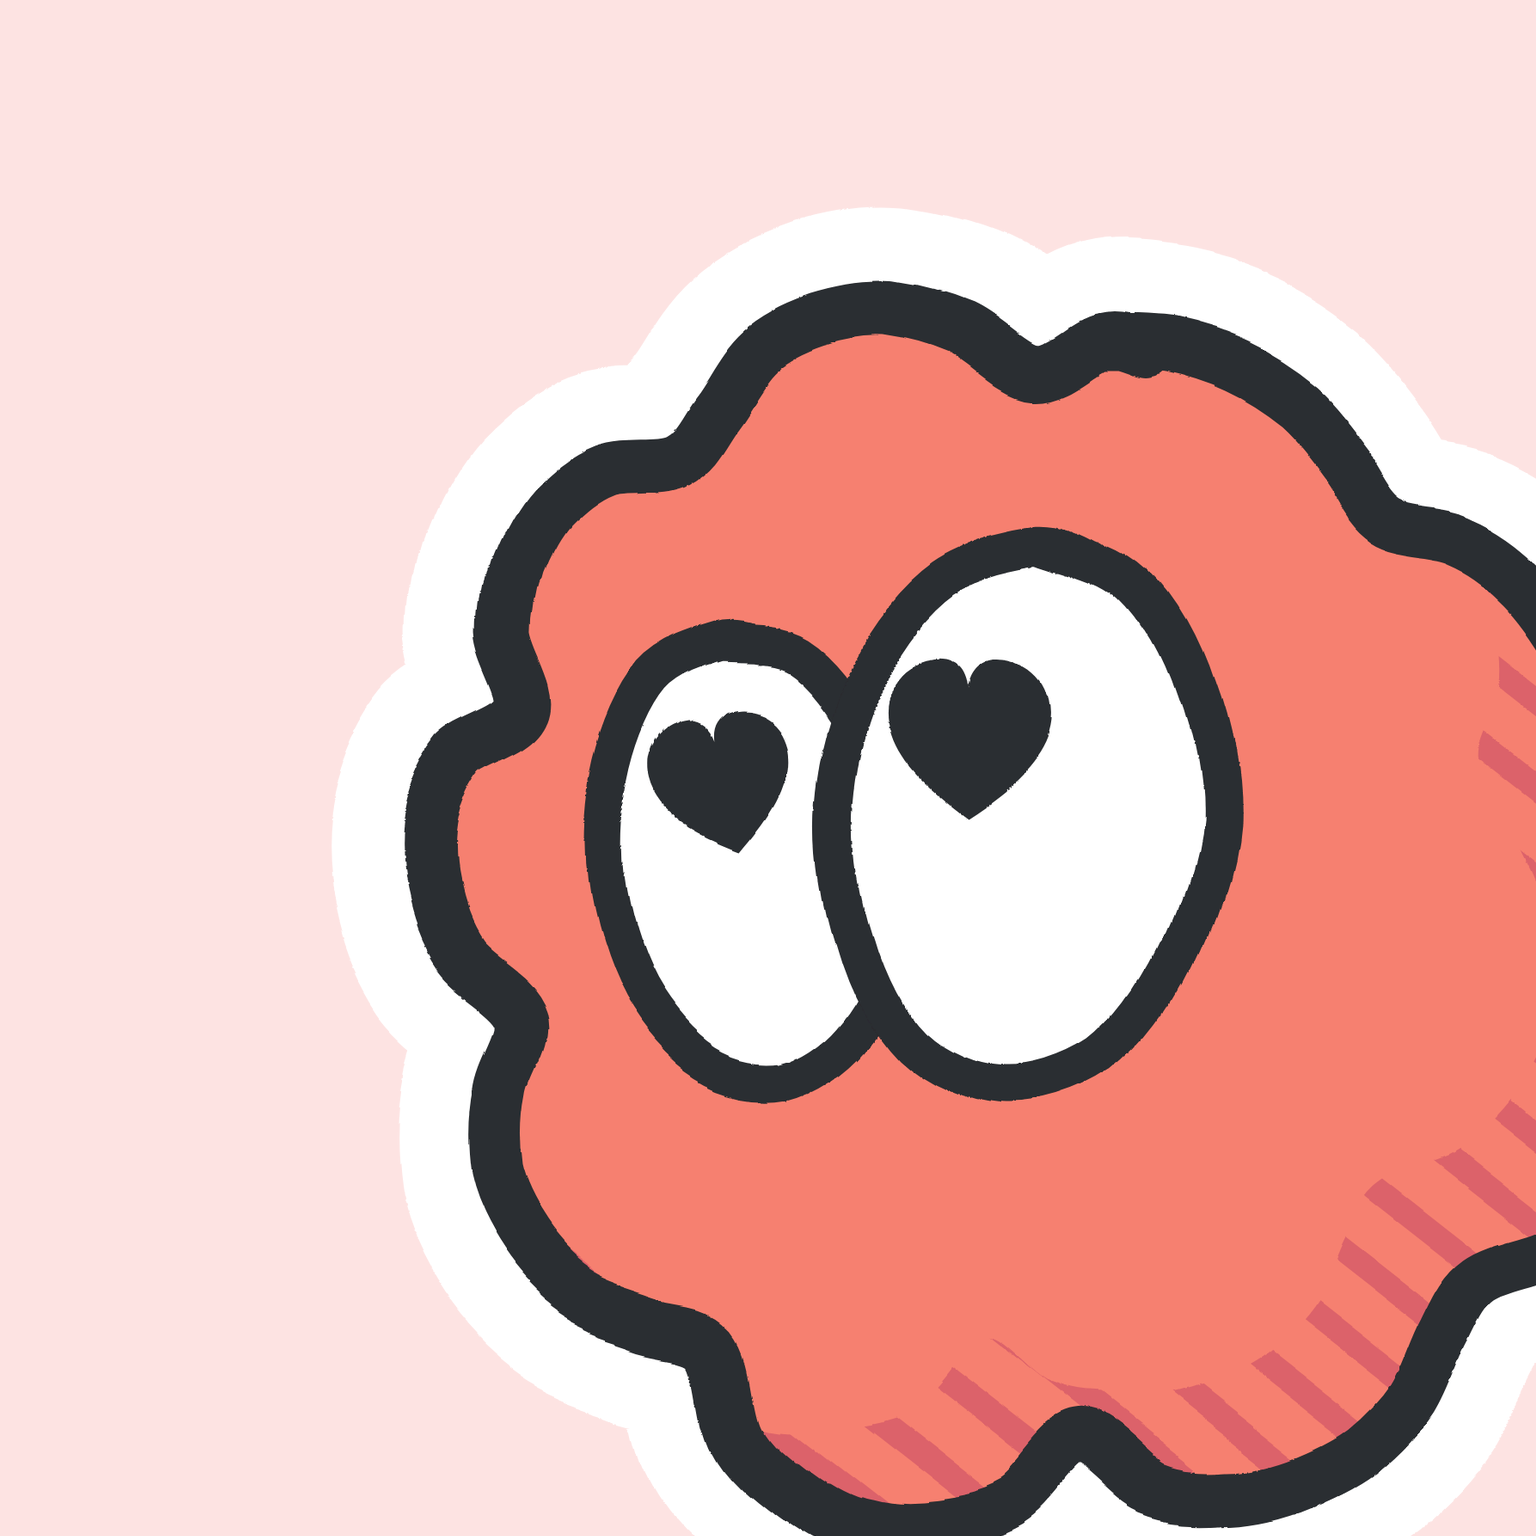
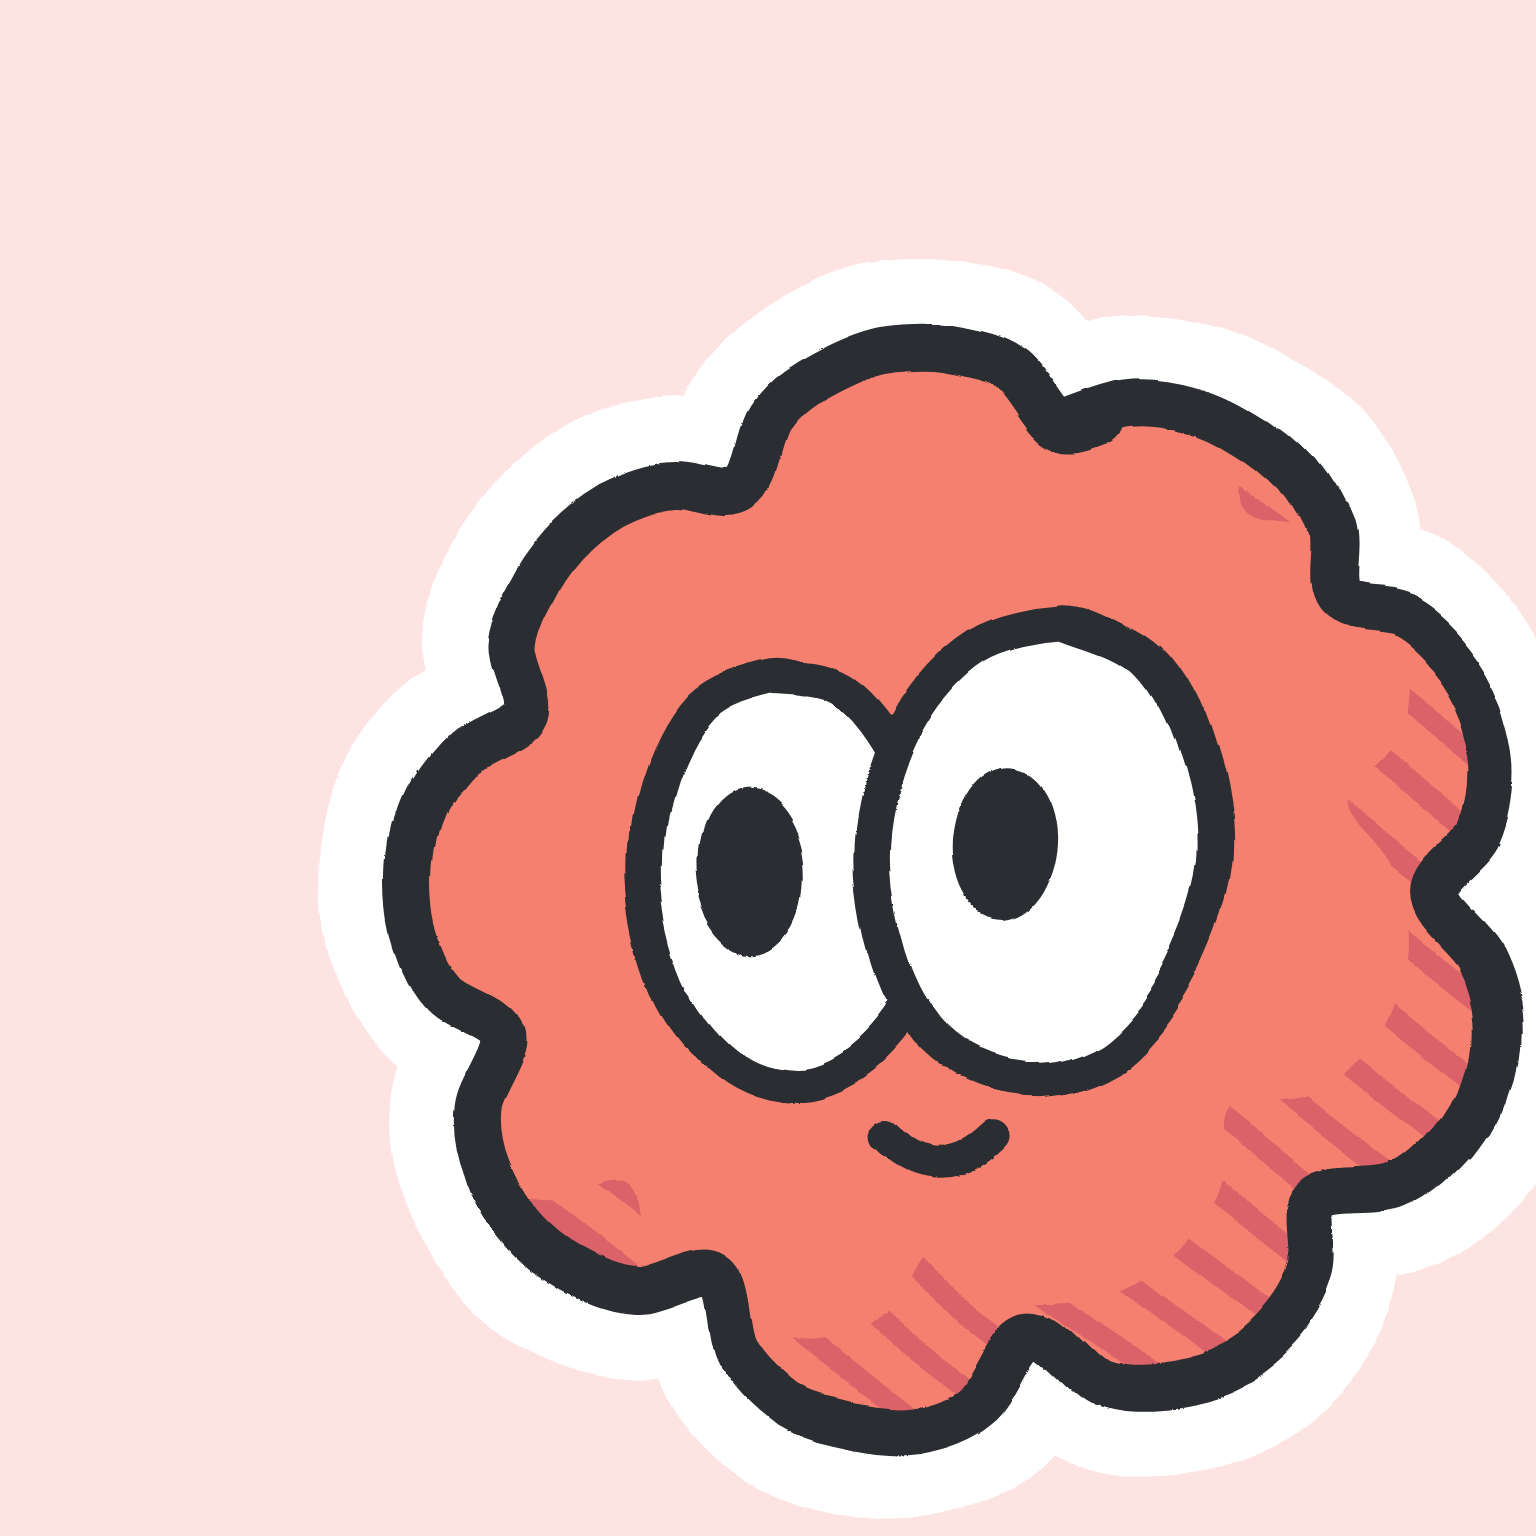
Иконка «Ту» на выбор: Ту как в приложении, крупно и срезан краем
Claude-Session: https://claude.ai/code/session_01BGbeMCCBMqi9GeYGHmWuLG

Changed region(s): [[0.2188, 0.125, 1.0, 1.0], [0.375, 0.3438, 0.8125, 0.7812], [0.1875, 0.4688, 0.375, 0.7812]]

diff --git a/lib/services/app_icon_service.dart b/lib/services/app_icon_service.dart
@@ -56,7 +56,7 @@ class AppIconService {
       letters: Color(0xFFF6493A),
       asset: 'assets/images/logo/app_icon.webp',
     ),
-    // Ту, нарисованный в манере значков, с глазами-сердечками. Бесплатный, как
+    // Ту таким, какой он в приложении, крупно и срезан краем. Бесплатный, как
     // все иконки; картинки делает tool/gen_tu_icon.py.
     AppIconOption(
       id: 'tu',

diff --git a/tool/gen_tu_icon.py b/tool/gen_tu_icon.py
@@ -1,7 +1,11 @@
 #!/usr/bin/env python3
-"""Иконка «Ту» на выбор: рисованный маскот с глазами-сердечками.
+"""Иконка «Ту» на выбор: маскот таким, какой он в приложении, крупно и срезан
+правым и нижним краем.
 
-Рисунок собран один раз (docs/branding/raw/tu-icon-src/) и лежит двумя
+С 25.11.2026 рисунок снимает `bake_ava.py` мастерской значков
+(togetherly-badges-hand: `python3 bake_ava.py` и `python3 bake_ava.py --layer`,
+выход в `out_icon/`). Прежний Ту с глазами-сердечками
+(docs/branding/raw/tu-icon-src/) владелец заменил. Рисунок лежит двумя
 файлами: `app-icon-tu.png` (1024, сама иконка) и `app-icon-tu-layer.png`
 (1536, та же композиция с запасом по краям, центр 1024 совпадает с иконкой).
 Отсюда скрипт раскладывает:
